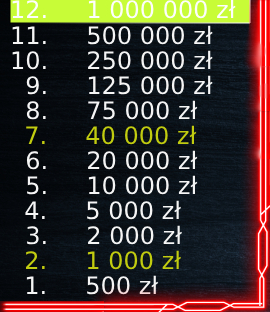
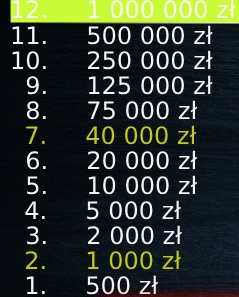
images score_table correction

diff --git a/QuizGame/src/mode1.py b/QuizGame/src/mode1.py
@@ -60,7 +60,7 @@ def endgame(pygame, window, width, question_number, ABCD):
 def mode1_play(window, width):
     bg_img = pygame.image.load('QuizGame/src/resources/game/bg.jpg').convert_alpha()
     option_hover = pygame.image.load('QuizGame/src/resources/game/answer_hover.png').convert_alpha()
-    score_table = [pygame.image.load('QuizGame/src/resources/game/score_table1.jpg').convert_alpha(),
+    score_table = [pygame.image.load('QuizGame/src/resources/game/score_table1b.jpg').convert_alpha(),
                     pygame.image.load('QuizGame/src/resources/game/score_table2.jpg').convert_alpha(),
                     pygame.image.load('QuizGame/src/resources/game/score_table3.jpg').convert_alpha(),
                     pygame.image.load('QuizGame/src/resources/game/score_table4.jpg').convert_alpha(),
